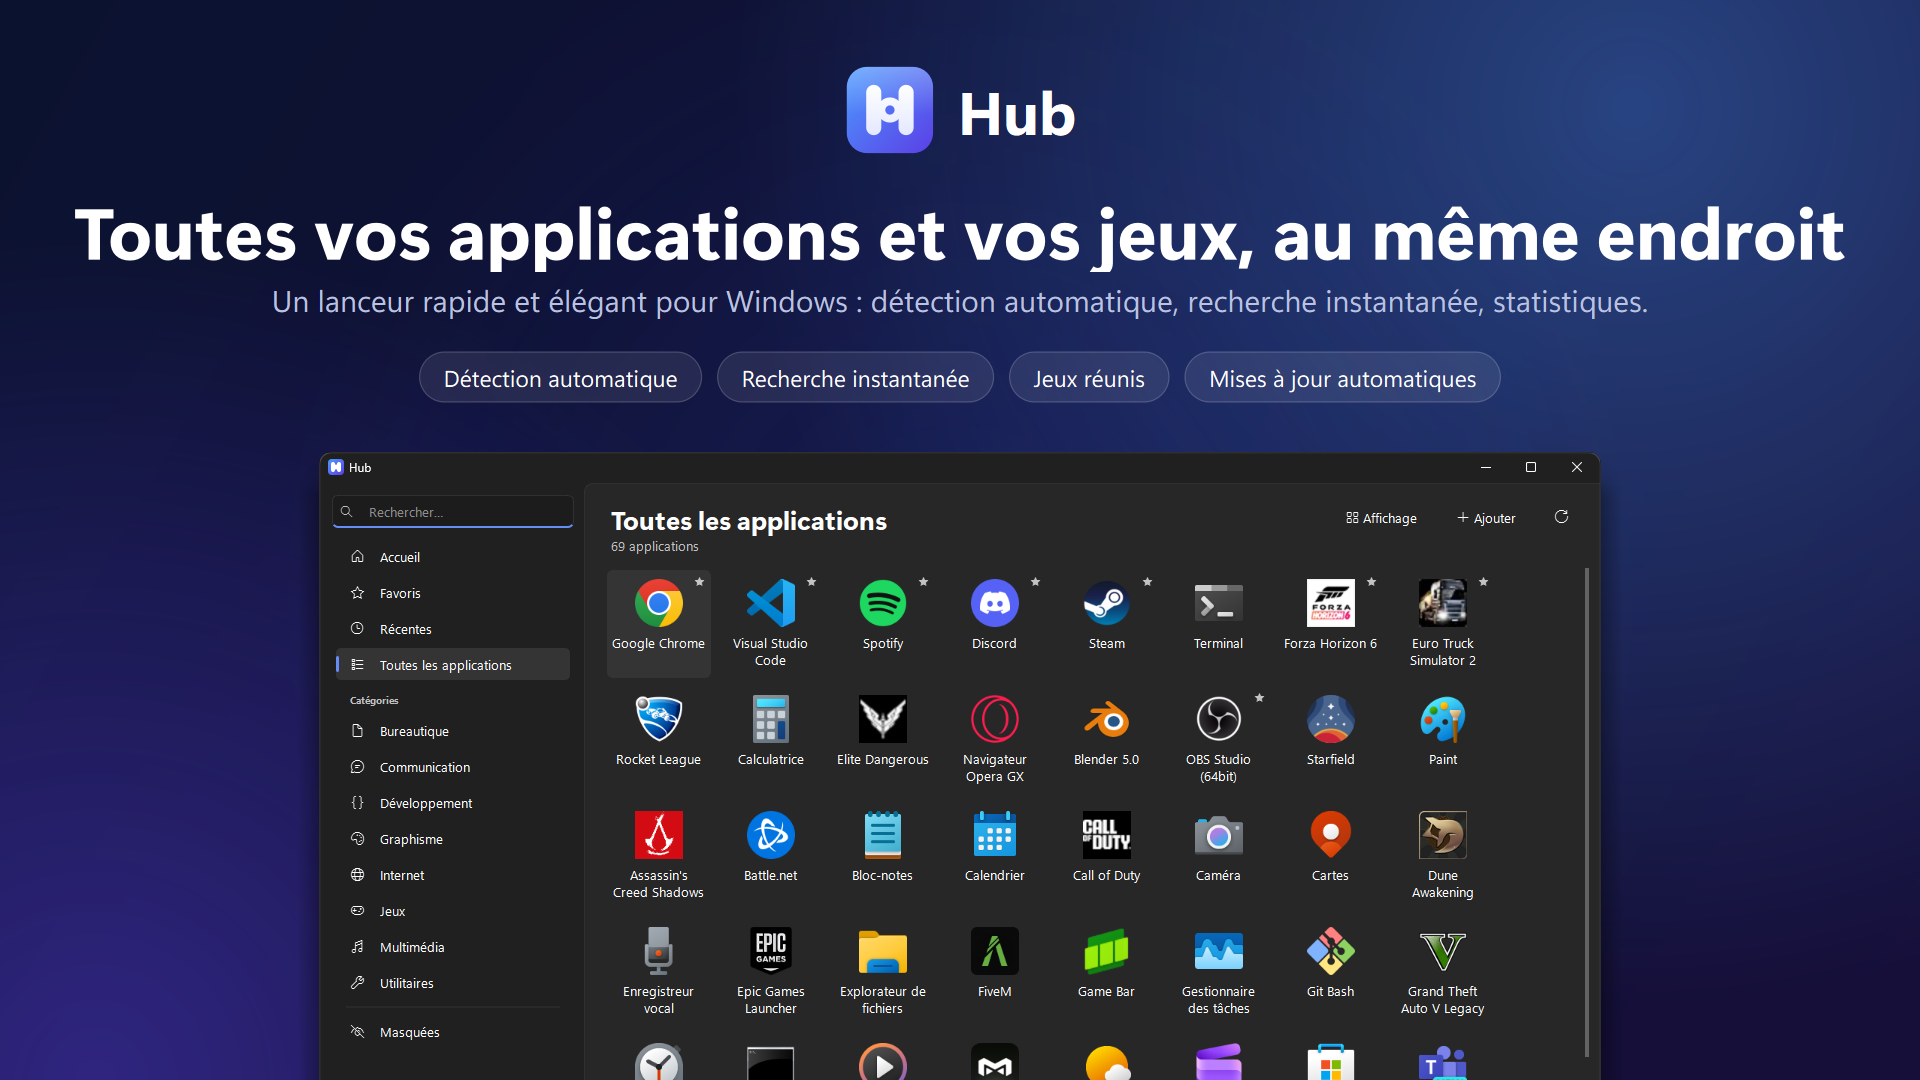
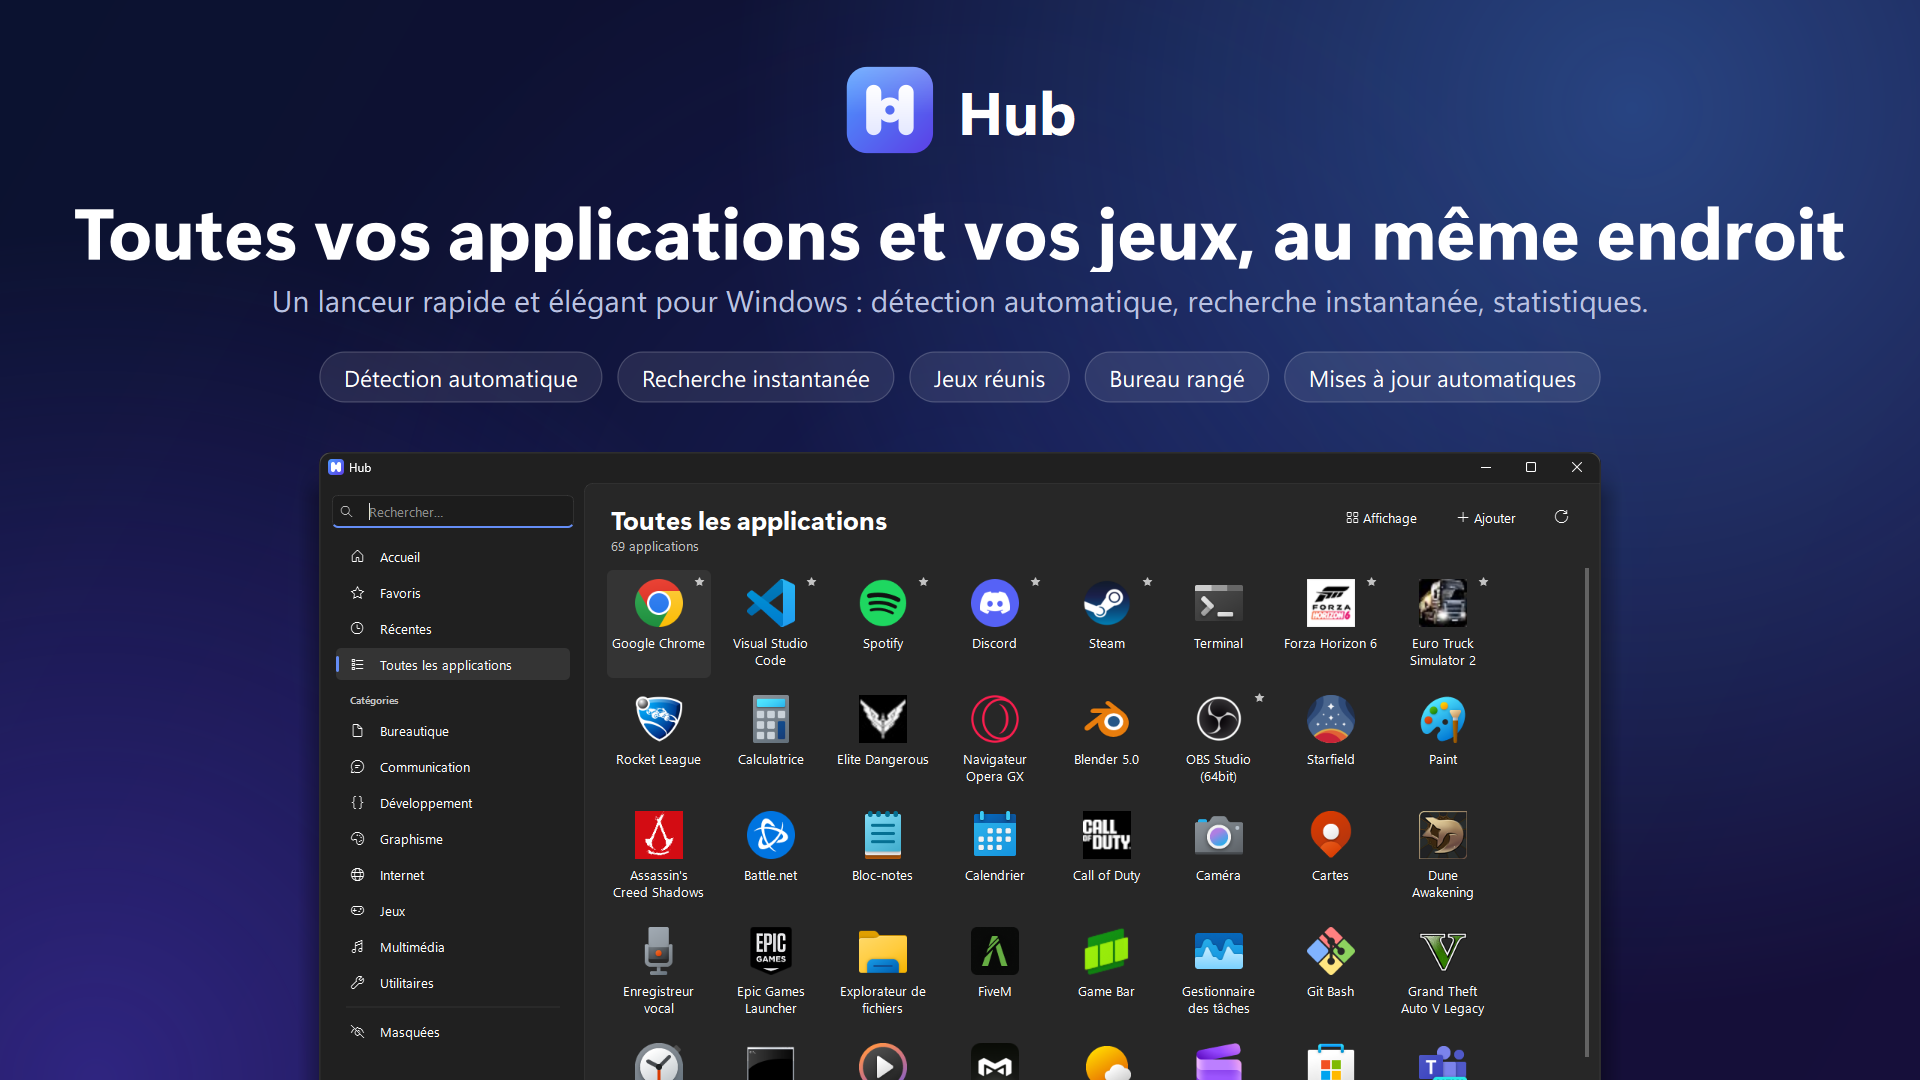
Visuels : nouvelle fonctionnalité « Ranger le bureau »

Changed region(s): [[0.1562, 0.3361, 0.8125, 0.3667]]

diff --git a/README.md b/README.md
@@ -23,6 +23,8 @@
 - **Accueil** avec accès rapide à l'Explorateur, au Gestionnaire des tâches et à la corbeille.
 - **Statistiques** du temps réellement passé dans chaque application (données conservées sur votre PC).
 - **Thème clair ou sombre**, façon Windows 11 ; favoris, catégories, applications masquées.
+- **Ranger le bureau** : les raccourcis des applications trouvées quittent le bureau, gardés en sauvegarde
+  et remis en place en un clic.
 - **Raccourci global**, icône de notification, démarrage avec Windows et **mises à jour automatiques**.
 
 ## Aperçu
@@ -33,7 +35,8 @@
 ![Statistiques d'utilisation](images/05-statistiques.png)
 ![Clair ou sombre](images/06-themes.png)
 ![Personnalisation](images/07-personnalisation.png)
-![Toujours prêt](images/08-toujours-pret.png)
+![Ranger le bureau](images/08-bureau.png)
+![Toujours prêt](images/09-toujours-pret.png)
 
 ## Installation
 
